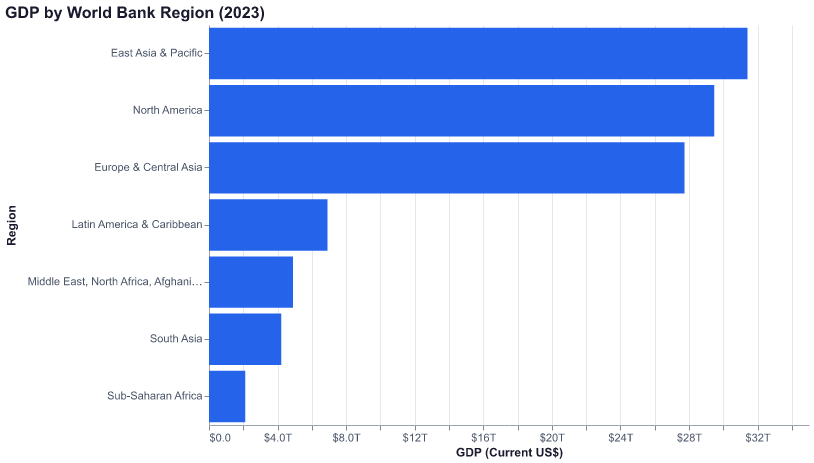
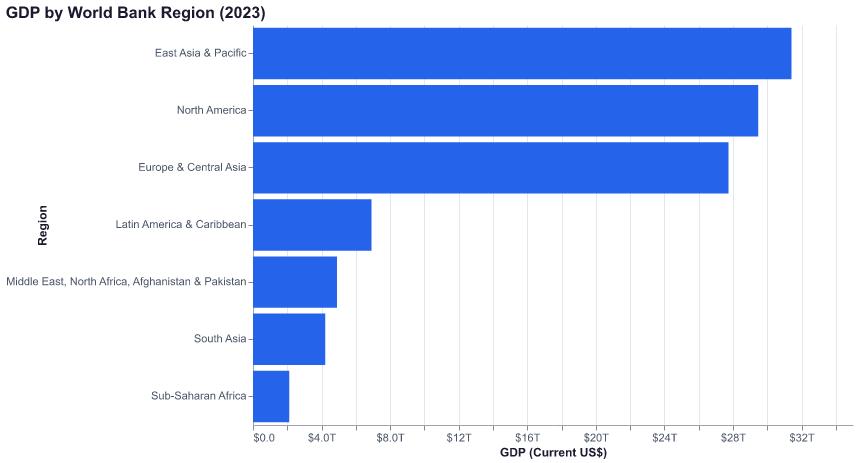
Improve chart readability and styling
- Show decades on x-axis instead of every year (1960, 1970, 1980...)
- Keep year labels horizontal (labelAngle=0)
- Prevent label truncation on horizontal bar charts (labelLimit=250)
- Full region name "Middle East, North Africa, Afghanistan & Pakistan" visible

🤖 Generated with [Claude Code](https://claude.com/claude-code)

diff --git a/charts/altair_renderer/renderer.py b/charts/altair_renderer/renderer.py
@@ -86,9 +86,13 @@ class AltairRenderer:
         data = spec.load_data()
 
         # Convert year columns to strings to avoid comma formatting (DRY fix)
+        # Also extract unique years for decade tick calculation
+        self._year_values = []
         if spec.x_format == "year" and spec.x:
+            self._year_values = sorted(set(row[spec.x] for row in data))
             data = [{**row, spec.x: str(row[spec.x])} for row in data]
         if spec.y_format == "year" and spec.y:
+            self._year_values = sorted(set(row[spec.y] for row in data))
             data = [{**row, spec.y: str(row[spec.y])} for row in data]
 
         # Build base chart
@@ -140,7 +144,12 @@ class AltairRenderer:
         elif chart_type == "horizontal_bar":
             return chart.mark_bar().encode(
                 x=y_axis,  # Swap for horizontal
-                y=alt.Y(f"{spec.x}:N", title=spec.x_label, sort="-x") if spec.x else alt.Y(),
+                y=alt.Y(
+                    f"{spec.x}:N",
+                    title=spec.x_label,
+                    sort="-x",
+                    axis=alt.Axis(labelLimit=250),  # Prevent label truncation
+                ) if spec.x else alt.Y(),
                 color=alt.Color(spec.color) if spec.color else alt.value(self.COLORS[0]),
             )
 
@@ -188,10 +197,10 @@ class AltairRenderer:
         This is the single source of truth for all axis formatting (DRY).
         Changes here propagate to all charts automatically.
         """
-        # Year format: handled at data level (converted to strings in render())
-        # No additional axis formatting needed
+        # Year format: show only decades (1960, 1970, 1980...) to avoid cramped axis
         if format_type == "year":
-            return axis
+            decade_ticks = [str(y) for y in self._year_values if y % 10 == 0]
+            return axis.axis(values=decade_ticks, labelAngle=0)
 
         format_map = {
             "currency": "$,.0f",
